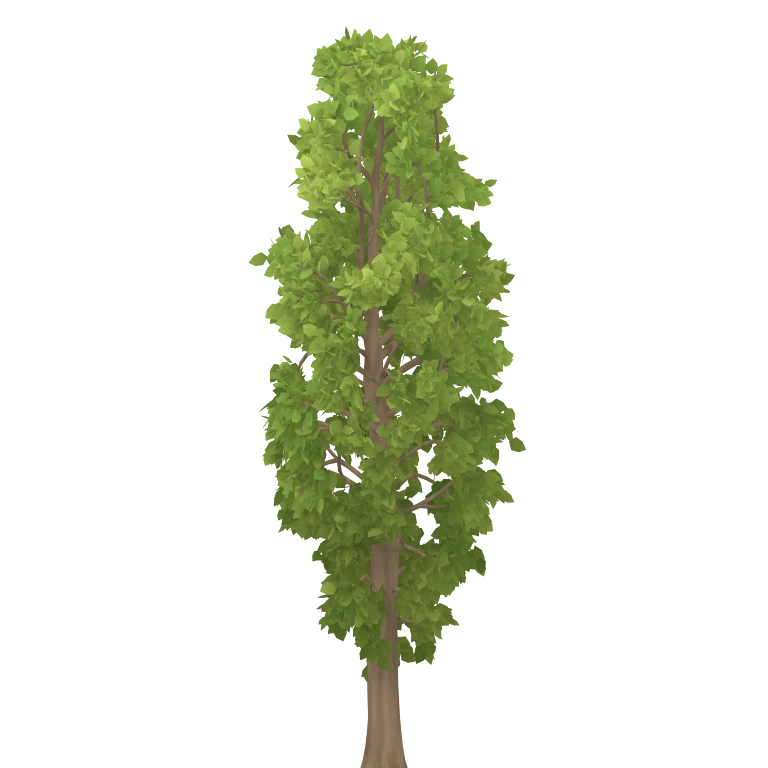
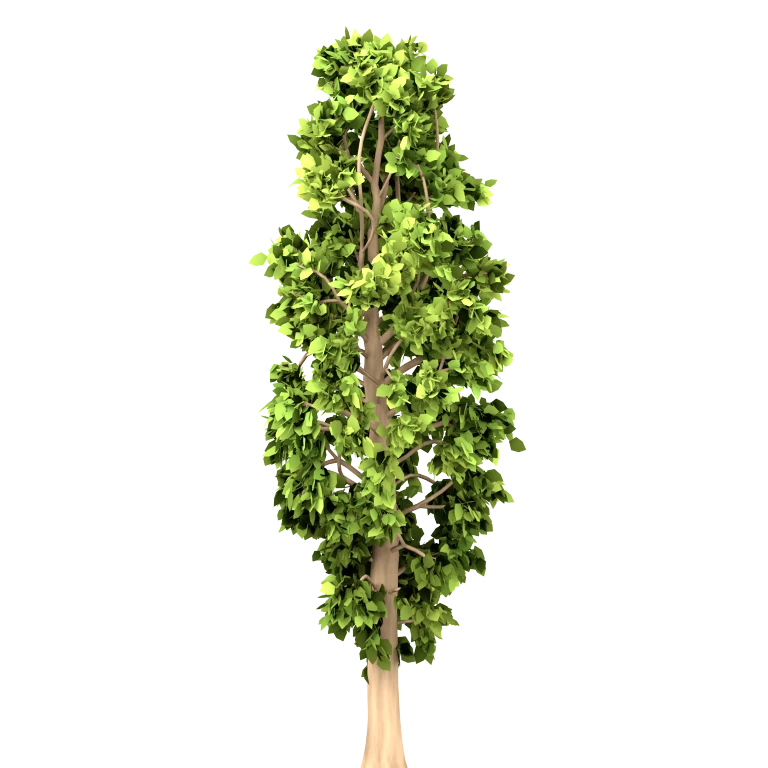
Render tree pictures reproducibly on the CPU
Tree cards now render with Cycles on the CPU with a fixed seed, sample count and thread count, so regenerating them produces byte-identical files.

Changed region(s): [[0.3125, 0.0312, 0.6875, 1.0]]

diff --git a/tools/assets/trees/scene.py b/tools/assets/trees/scene.py
@@ -11,8 +11,17 @@ BARK_COLOUR = (0.115, 0.08, 0.05)
 def reset(samples):
     bpy.ops.wm.read_factory_settings(use_empty=True)
     scene = bpy.context.scene
-    scene.render.engine = "BLENDER_EEVEE_NEXT"
-    scene.eevee.taa_render_samples = samples
+    scene.render.engine = "CYCLES"
+    scene.cycles.device = "CPU"
+    scene.cycles.samples = samples
+    scene.cycles.use_adaptive_sampling = False
+    scene.cycles.use_denoising = False
+    scene.cycles.seed = 7
+    scene.cycles.use_animated_seed = False
+    scene.cycles.max_bounces = 4
+    scene.cycles.transparent_max_bounces = 16
+    scene.render.threads_mode = "FIXED"
+    scene.render.threads = 8
     scene.render.film_transparent = True
     scene.render.filter_size = 1.2
     scene.render.image_settings.file_format = "PNG"

diff --git a/tools/assets/trees/build.py b/tools/assets/trees/build.py
@@ -49,7 +49,7 @@ def main():
         for name in names:
             spec = SPECIES[name]
             plant = plants.conifer(spec) if spec["kind"] == "conifer" else plants.broadleaf(spec)
-            scene = staging.reset(32)
+            scene = staging.reset(128)
             staging.bark_object(scene, plant, spec.get("bark", 1.0))
             leaves = staging.leaf_object(scene, plant)
             target = LEVELS["leafed" if spec["bare"] else "evergreen"]
